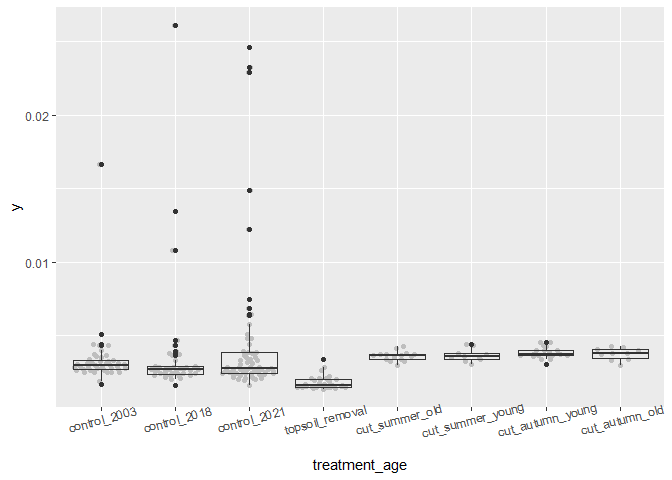
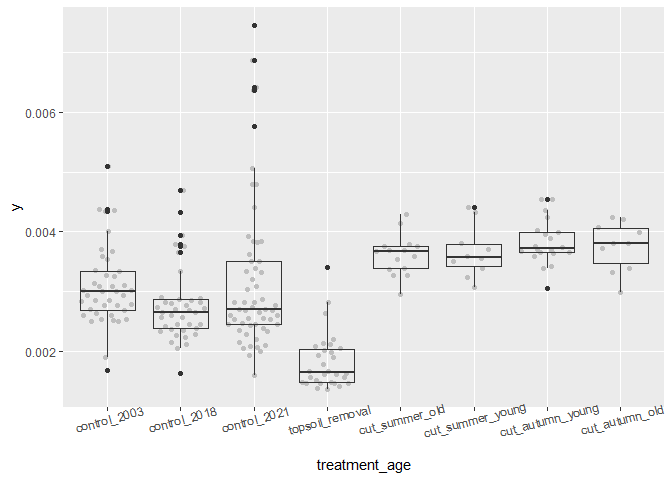
Seed mass model without Polygonatum

diff --git a/markdown_model_check/model_check_seed_mass.md b/markdown_model_check/model_check_seed_mass.md
@@ -1,7 +1,7 @@
 Garchinger Heide and restoration sites: <br> Seed mass
 ================
 <b>Markus Bauer</b> <br>
-<b>2025-12-03</b>
+<b>2025-12-08</b>
 
 - [Preparation](#preparation)
 - [Statistics](#statistics)
@@ -55,7 +55,13 @@ sites <- read_csv(
       treatment_age = "f"
     )
 ) %>%
-  rename(y = CWM_Seed)
+  rename(y = CWM_Seed) %>%
+  filter(
+    !(id %in% c(
+      "X2021tum03", "X2021tum27", "X2021tum43", "X2021tum48", "X2021tum51",
+      "X2003roederS11", "X2018roederS12", "X2018roederS16", "X2018roederS18"
+    )) # Plots with >=10% of Polygonatum odoratum (seed mass = 0.08 g)
+  )
 
 sites_fc <- sites %>%
   select(
@@ -106,26 +112,26 @@ Rmisc::CI(sites$y, ci = .95)
 ```
 
     ##       upper        mean       lower 
-    ## 0.004067080 0.003639004 0.003210929
+    ## 0.003175532 0.003044595 0.002913657
 
 ``` r
 median(sites$y)
 ```
 
-    ## [1] 0.00293
+    ## [1] 0.00287
 
 ``` r
 sd(sites$y)
 ```
 
-    ## [1] 0.003302076
+    ## [1] 0.0009899388
 
 ``` r
 quantile(sites$y, probs = c(0.05, 0.95), na.rm = TRUE)
 ```
 
-    ##       5%      95% 
-    ## 0.001575 0.006395
+    ##        5%       95% 
+    ## 0.0015615 0.0045430
 
 ### Graphs of raw data
 
@@ -137,9 +143,9 @@ quantile(sites$y, probs = c(0.05, 0.95), na.rm = TRUE)
     ## # Groups:   treatment_age [8]
     ##   treatment_age    treatment           n
     ##   <fct>            <fct>           <int>
-    ## 1 control_2003     control_2003       42
-    ## 2 control_2018     control_2018       42
-    ## 3 control_2021     control_2021       62
+    ## 1 control_2003     control_2003       41
+    ## 2 control_2018     control_2018       39
+    ## 3 control_2021     control_2021       57
     ## 4 topsoil_removal  topsoil_removal    30
     ## 5 cut_summer_old   cut_summer         15
     ## 6 cut_summer_young cut_summer         10
@@ -149,6 +155,15 @@ quantile(sites$y, probs = c(0.05, 0.95), na.rm = TRUE)
     ## `stat_bin()` using `bins = 30`. Pick better value with `binwidth`.
 
 ![](model_check_seed_mass_files/figure-gfm/outliers-1.png)<!-- -->
+
+    ## # A tibble: 0 × 42
+    ## # ℹ 42 variables: id <chr>, plot <chr>, location <chr>, elevation <dbl>,
+    ## #   plot_size <dbl>, treatment <fct>, treatment_age <fct>, mowing_age <chr>,
+    ## #   mowing <dbl>, survey_date <date>, year <dbl>, cover_vegetation <dbl>,
+    ## #   height_vegetation <dbl>, parcel <chr>, block <chr>,
+    ## #   year_topsoil_removal <chr>, year_hay_transfer <chr>, mowing_date <chr>,
+    ## #   mowing_date_start <dbl>, mowing_date_former <chr>,
+    ## #   mowing_date_former_start <dbl>, cover_soil_2024 <dbl>, grass_cover <dbl>, …
 
 ## Model
 
@@ -166,10 +181,10 @@ summary(m)
 ## Permutation method  Comb. 2 and 4  ( 999  permutations)
 ## 
 ## Adjustment method for multiple comparisons:   holm 
-##                      Test Stat         Obs    Std.Obs     Alter Pvalue
-## 1   treatment_age / log_y    F 86.77361205 -0.3749101   greater  0.509
-## 2     grass_cover / log_y    r  0.13536512  0.9273574 two-sided  0.392
-## 3 graminoid_cover / log_y    r  0.03452561  0.5945132 two-sided  0.584
+##                      Test Stat          Obs    Std.Obs     Alter Pvalue
+## 1   treatment_age / log_y    F 105.73173212 -0.2501908   greater  0.464
+## 2     grass_cover / log_y    r   0.15285480  0.9580061 two-sided  0.386
+## 3 graminoid_cover / log_y    r   0.04361163  0.6876947 two-sided  0.525
 ##   Pvalue.adj  
 ## 1          1  
 ## 2          1  
@@ -188,16 +203,16 @@ m
 ## ---
 ## 
 ##                              Test   Stat        Obs    Std.Obs     Alter Pvalue
-## 1      treat.control_2003 / log_y Homog. 0.28807361  3.9633565      less      1
-## 2      treat.control_2018 / log_y Homog. 0.22604799  1.6192712      less  0.932
-## 3      treat.control_2021 / log_y Homog. 0.25025172 -0.5348164      less  0.321
-## 4   treat.topsoil_removal / log_y Homog. 0.03256314 -0.4147405      less  0.418
-## 5    treat.cut_summer_old / log_y Homog. 0.04432780 -0.5897104      less  0.297
-## 6  treat.cut_summer_young / log_y Homog. 0.01919271 -0.5476576      less  0.339
-## 7  treat.cut_autumn_young / log_y Homog. 0.06898688 -0.8772573      less  0.177
-## 8    treat.cut_autumn_old / log_y Homog. 0.04164114 -0.1022319      less  0.565
-## 9             grass_cover / log_y      r 0.13536512  0.9273574 two-sided  0.392
-## 10        graminoid_cover / log_y      r 0.03452561  1.2700839 two-sided  0.202
+## 1      treat.control_2003 / log_y Homog. 0.31272933  4.6074070      less      1
+## 2      treat.control_2018 / log_y Homog. 0.20396298  0.9742687      less  0.836
+## 3      treat.control_2021 / log_y Homog. 0.21102442 -0.4096974      less  0.338
+## 4   treat.topsoil_removal / log_y Homog. 0.03715987 -0.2683677      less  0.493
+## 5    treat.cut_summer_old / log_y Homog. 0.05058528 -0.3536641      less  0.387
+## 6  treat.cut_summer_young / log_y Homog. 0.02190202 -0.3861740      less  0.422
+## 7  treat.cut_autumn_young / log_y Homog. 0.07872532 -0.4981355      less  0.356
+## 8    treat.cut_autumn_old / log_y Homog. 0.04751936  0.1379336      less  0.687
+## 9             grass_cover / log_y      r 0.15285480  0.9580061 two-sided  0.386
+## 10        graminoid_cover / log_y      r 0.04361163  0.6876947 two-sided  0.525
 ##    Pvalue.adj  
 ## 1           1  
 ## 2           1  
@@ -260,10 +275,10 @@ summary(m_sub)
 ## Permutation method  Comb. 2 and 4  ( 999  permutations)
 ## 
 ## Adjustment method for multiple comparisons:   holm 
-##                      Test Stat         Obs    Std.Obs     Alter Pvalue
-## 1       treatment / log_y    F 96.83790690 -0.4619430   greater  0.564
-## 2     grass_cover / log_y    r  0.12581276  0.7783048 two-sided  0.477
-## 3 graminoid_cover / log_y    r  0.01766672  0.2810713 two-sided  0.799
+##                      Test Stat          Obs    Std.Obs     Alter Pvalue
+## 1       treatment / log_y    F 120.31863003 -0.2847703   greater  0.489
+## 2     grass_cover / log_y    r   0.14266498  0.9520615 two-sided  0.399
+## 3 graminoid_cover / log_y    r   0.02646352  0.4442478 two-sided  0.700
 ##   Pvalue.adj  
 ## 1          1  
 ## 2          1  
@@ -282,14 +297,14 @@ m_sub
 ## ---
 ## 
 ##                            Test   Stat        Obs    Std.Obs     Alter Pvalue
-## 1    treat.control_2003 / log_y Homog. 0.30141905  3.6849004      less      1
-## 2    treat.control_2018 / log_y Homog. 0.23652001  1.3738630      less  0.898
-## 3    treat.control_2021 / log_y Homog. 0.26184501  0.3231958      less  0.679
-## 4 treat.topsoil_removal / log_y Homog. 0.02325084 -0.6014364      less  0.311
-## 5      treat.cut_summer / log_y Homog. 0.03700819 -0.5708915      less  0.322
-## 6      treat.cut_autumn / log_y Homog. 0.11575322 -0.2888835      less  0.426
-## 7           grass_cover / log_y      r 0.12581276  0.7783048 two-sided  0.477
-## 8       graminoid_cover / log_y      r 0.01766672  0.6526413 two-sided  0.534
+## 1    treat.control_2003 / log_y Homog. 0.32945247  4.3613582      less      1
+## 2    treat.control_2018 / log_y Homog. 0.21486986  0.8370529      less   0.78
+## 3    treat.control_2021 / log_y Homog. 0.22230891 -0.4178623      less  0.354
+## 4 treat.topsoil_removal / log_y Homog. 0.02671429 -0.4495861      less  0.397
+## 5      treat.cut_summer / log_y Homog. 0.04252093 -0.4340229      less  0.376
+## 6      treat.cut_autumn / log_y Homog. 0.13299581 -0.3842274      less  0.422
+## 7           grass_cover / log_y      r 0.14266498  0.9520615 two-sided  0.399
+## 8       graminoid_cover / log_y      r 0.02646352  0.9184619 two-sided   0.37
 ##   Pvalue.adj  
 ## 1          1  
 ## 2          1  
@@ -306,7 +321,7 @@ m_sub
 
 # Session info
 
-    ## R version 4.5.1 (2025-06-13 ucrt)
+    ## R version 4.5.2 (2025-10-31 ucrt)
     ## Platform: x86_64-w64-mingw32/x64
     ## Running under: Windows 11 x64 (build 26100)
     ## 
@@ -333,13 +348,13 @@ m_sub
     ## loaded via a namespace (and not attached):
     ##  [1] Rmisc_1.5.1        utf8_1.2.6         generics_0.1.4     lattice_0.22-7    
     ##  [5] stringi_1.8.7      hms_1.1.3          digest_0.6.37      magrittr_2.0.3    
-    ##  [9] evaluate_1.0.4     grid_4.5.1         timechange_0.3.0   RColorBrewer_1.1-3
+    ##  [9] evaluate_1.0.4     grid_4.5.2         timechange_0.3.0   RColorBrewer_1.1-3
     ## [13] fastmap_1.2.0      plyr_1.8.9         rprojroot_2.1.0    scales_1.4.0      
     ## [17] cli_3.6.5          rlang_1.1.6        crayon_1.5.3       bit64_4.6.0-1     
-    ## [21] withr_3.0.2        yaml_2.3.10        parallel_4.5.1     tools_4.5.1       
+    ## [21] withr_3.0.2        yaml_2.3.10        parallel_4.5.2     tools_4.5.2       
     ## [25] tzdb_0.5.0         vctrs_0.6.5        R6_2.6.1           lifecycle_1.0.4   
     ## [29] bit_4.6.0          vipor_0.4.7        vroom_1.6.5        MASS_7.3-65       
     ## [33] pkgconfig_2.0.3    beeswarm_0.4.0     pillar_1.11.0      gtable_0.3.6      
     ## [37] glue_1.8.0         Rcpp_1.1.0         xfun_0.52          tidyselect_1.2.1  
     ## [41] rstudioapi_0.17.1  knitr_1.50         farver_2.1.2       htmltools_0.5.8.1 
-    ## [45] labeling_0.4.3     rmarkdown_2.29     compiler_4.5.1
+    ## [45] labeling_0.4.3     rmarkdown_2.29     compiler_4.5.2
